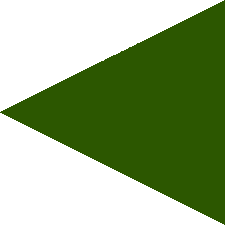
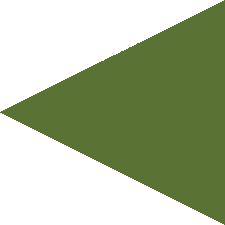
Using new color scheme, added Feedback link to uservoice.com portal.

diff --git a/css/layout.css b/css/layout.css
@@ -1,44 +1,44 @@
 /* Overridden styles of Blueprint to customize layout */
 body {
-	background-color: #FFFFFF;
+	background-color: #C7D9D4;
 }
 
 .header {
-	background: #AFD775;
+	background: #84A651;
 	border-radius: 10px 10px 0px 0px;
 	-moz-border-radius: 10px 10px 0px 0px;
-	border-top: 1px solid #AFD775;
-	border-left: 1px solid #AFD775;
-	border-right: 1px solid #AFD775;
+	border-top: 1px solid #84A651;
+	border-left: 1px solid #84A651;
+	border-right: 1px solid #84A651;
 	padding: 4px 10px 4px 5px;
 	font-weight: bold;
 	font-size: x-large;
-	color: #2C5700;
+	color: #000000;
 	text-align: center;
 }
 
 .detail {
 	background: #FFFFFF;
-	border-left: 1px solid #AFD775;
-	border-right: 1px solid #AFD775;
+	border-left: 1px solid #84A651;
+	border-right: 1px solid #84A651;
 	overflow: auto;
 }
 
 .detail-padded {
 	background: #FFFFFF;
-	border-left: 1px solid #AFD775;
-	border-right: 1px solid #AFD775;
+	border-left: 1px solid #84A651;
+	border-right: 1px solid #84A651;
 	padding: 4px 10px 4px 5px;
 	overflow: auto;
 }
 
 .footer-text {
-	background: #AFD775;
+	background: #84A651;
 	border-radius: 0px 0px 10px 10px;
 	-moz-border-radius: 0px 0px 10px 10px;
-	border-left: 1px solid #AFD775;
-	border-right: 1px solid #AFD775;
-	border-bottom: 1px solid #AFD775;
+	border-left: 1px solid #84A651;
+	border-right: 1px solid #84A651;
+	border-bottom: 1px solid #84A651;
 	padding: 4px 10px 4px 5px;
 }
 
@@ -46,9 +46,9 @@ body {
 	background: #FFFFFF;
 	border-radius: 0px 0px 10px 10px;
 	-moz-border-radius: 0px 0px 10px 10px;
-	border-left: 1px solid #AFD775;
-	border-right: 1px solid #AFD775;
-	border-bottom: 1px solid #AFD775;
+	border-left: 1px solid #84A651;
+	border-right: 1px solid #84A651;
+	border-bottom: 1px solid #84A651;
 	padding: 4px 10px 4px 5px;
 }
 
@@ -101,19 +101,19 @@ body {
 
 .hashtag {
 	font-weight: bold;
-	color: #024769;
+	color: #68A61E;
 	cursor: pointer;
 }
 
 a:link {
 	font-weight: bold;
-	color: #2C5700;
+	color: #4E84A6;
 	text-decoration: none;
 }
 
 a:visited {
 	font-weight: bold;
-	color: #2C5700;
+	color: #4E84A6;
 	text-decoration: none;
 }
 
@@ -129,7 +129,7 @@ input {
 	margin-top: 5px;
 	width: 200px;
 	border: 1px solid black;
-	background-color: #AFD775;
+	background-color: #84A651;
 	filter: alpha(opacity =   80);
 	opacity: .8;
 	color: black;
@@ -216,5 +216,9 @@ input {
 }
 
 .title-text {
-	color: #2C5700;
+	color: #000000;
+}
+
+.short-text {
+	width: 30px;
 }

diff --git a/css/contact.css b/css/contact.css
@@ -1,6 +1,6 @@
 /* Styles for Contact Us form */
 div#container {
-	color: #2C5700;
+	color: #C7D9D4;
 	background: transparent;
 	font-size: 1.2em;
 	margin: 0 auto;
@@ -35,7 +35,7 @@ ol.forms label {
 	display: block;
 	float: left;
 	line-height: 2.5em;
-	padding-right: 4%;
+	padding-right: 6%;
 	text-align: left;
 	width: 10%;
 	font-size: medium;
@@ -43,15 +43,15 @@ ol.forms label {
 
 ol.forms input {
 	background: white;
-	border: 1px solid #2C5700;
+	border: 1px solid #C7D9D4;
 	width: 80%;
 	font-size: 1.0em;
 }
 
 ol.forms textarea {
-	height: 15em;
+	height: 13em;
 	background: white;
-	border: 1px solid #2C5700;
+	border: 1px solid #C7D9D4;
 	width: 80%;
 	font-size: 1.0em;
 }
@@ -62,5 +62,5 @@ ol.forms textarea {
 
 .buttons {
 	font-size: medium;
-	color: #2C5700;
+	color: #4E84A6;
 }

diff --git a/css/jquery-tools.css b/css/jquery-tools.css
@@ -12,7 +12,7 @@
 #overlay {
 	background-image:
 		url(/images/transparent.png);
-	color: #efefef;
+	color: #ffffff;
 	height: 450px;
 }
 

diff --git a/index.php b/index.php
@@ -2,7 +2,7 @@
 <html xmlns="http://www.w3.org/1999/xhtml" xml:lang="en" lang="en">
 
 	<head>
-	    <title>lctn.me</title>
+	    <title>lctn.me | A Location Portal - Find it, Share it</title>
 	
 		<link rel="stylesheet" href="css/blueprint/screen.css" type="text/css" media="screen, projection"/>
 		<link rel="stylesheet" href="css/blueprint/print.css" type="text/css" media="print"/> 
@@ -27,6 +27,7 @@
 		<script type="text/javascript" src="js/custom/tweets.js"> </script>
 		<script type="text/javascript" src="js/custom/weather.js"> </script>
 		<script type="text/javascript" src="js/custom/wikipedia.js"> </script>
+
 
 		<script type="text/javascript">
 
@@ -108,7 +109,7 @@
 					// if the function argument is given to overlay, it is assumed to be the onBeforeLoad event listener.
 
 					$("a[rel]").overlay({
-						mask: '#2C5700',
+						mask: '#C7D9D4',
 						effect: 'apple',
 
 						onBeforeLoad: function() {
@@ -546,7 +547,7 @@
 				<div class="detail" >
 					<center>
 						<input class="large button" type="button" name="generate" value="Shorten" onclick="shortenUrl();"/>
-						<input title="Click Go to generate a short url. The link will point back to this location and open the page as you see it." type="text" class="url-text" name="url" id="url" value="" readonly="readonly"/>
+						<input title="Click Shorten to generate a short url. The link will point back to this location and open the page as you see it (with live data updated)." type="text" class="url-text" name="url" id="url" value="" readonly="readonly"/>
 						<div class="inline" id="url-window"></div>
 					</center>
 				</div>
@@ -613,7 +614,7 @@
 	 				<div class="detail-padded">
 						<center>
 							Search for <input title="Enter a search term to filter tweets, comma seperate for multiple terms (eg. party, cool)" type="text" name="filter" id="filter" onkeypress="if (event.keyCode == 13) { updateTwitterLocationInformation(); }"/>
-							in <input title="How big an area would you like to search for tweets in?" type="text" name="tweet_range" id="tweet_range" value="1" onkeypress="if (event.keyCode == 13) { updateTwitterLocationInformation(); }"/> km
+							in <input title="How big an area would you like to search for tweets in?" class="short-text" type="text" name="tweet_range" id="tweet_range" value="1" onkeypress="if (event.keyCode == 13) { updateTwitterLocationInformation(); }"/> km
 							<input type="button" id="filter_now" name="filter_now" value="Go" onclick="updateTwitterLocationInformation();"/>
 						</center>
 					</div>
@@ -640,7 +641,7 @@
 					</div>
 	 				<div class="detail-padded">
 						<center>
-							Find me articles within <input title="How big an area would you like to see wikipedia articles for (maximum of 5km)?" type="text" name="wiki_range" id="wiki_range" value="1" onkeyup="if (this.value > 5) this.value = 5; " onkeypress="if (event.keyCode == 13) { updateWikiLocationInformation(); }"/> km
+							Find me articles within <input title="How big an area would you like to see wikipedia articles for (maximum of 5km)?" class="short-text" type="text" name="wiki_range" id="wiki_range" value="1" onkeyup="if (this.value > 5) this.value = 5; " onkeypress="if (event.keyCode == 13) { updateWikiLocationInformation(); }"/> km
 							<input type="button" id="filter_now" name="filter_now" value="Go" onclick="updateWikiLocationInformation();"/>								
 						</center>
 					</div>
@@ -683,6 +684,31 @@
 			
 
 		</div>
+
+		<script type="text/javascript">
+			var uservoiceOptions = {
+			  /* required */
+			  key: 'lctn',
+			  host: 'lctn.uservoice.com', 
+			  forum: '86707',
+			  showTab: true,  
+			  /* optional */
+			  alignment: 'left',
+			  background_color:'#73654C', 
+			  text_color: 'white',
+			  hover_color: '#4E84A6',
+			  lang: 'en'
+			};
+			
+			function _loadUserVoice() {
+			  var s = document.createElement('script');
+			  s.setAttribute('type', 'text/javascript');
+			  s.setAttribute('src', ("https:" == document.location.protocol ? "https://" : "http://") + "cdn.uservoice.com/javascripts/widgets/tab.js");
+			  document.getElementsByTagName('head')[0].appendChild(s);
+			}
+			_loadSuper = window.onload;
+			window.onload = (typeof window.onload != 'function') ? _loadUserVoice : function() { _loadSuper(); _loadUserVoice(); };
+		</script>
 
 	</body>
 

diff --git a/contact.php b/contact.php
@@ -2,7 +2,7 @@
 <html xmlns="http://www.w3.org/1999/xhtml">
 	<head>
 		<meta http-equiv="Content-Type" content="text/html; charset=iso-8859-1" />
-		<title>jQuery Ajax Forms | Trevor Davis</title>
+		<title>lctn.me | Contact Us</title>
 		<link href="css/contact.css" type="text/css" rel="stylesheet" media="screen,projection" />
 		<script type="text/javascript">
 			$(document).ready(function(){
@@ -12,21 +12,22 @@
 					var subject = "An email from lctn.me's contact form";
 					var hasError = false;
 					var emailReg = /^([\w-\.]+@([\w-]+\.)+[\w-]{2,4})?$/;
-					var errorColor = "#FF0000";
+					var errorColor = "1px solid red";
+					var normalColor = "1px solid white";
 					var emailFromVal = $("#emailFrom").val();
-					$('#emailFrom').css("background-color", "white");
+					$('#emailFrom').css("border", normalColor);
 					if(emailFromVal == '') {
-						$('#emailFrom').css("background-color", errorColor);
+						$('#emailFrom').css("border", errorColor);
 						hasError = true;
 					} else if(!emailReg.test(emailFromVal)) {	
-						$('#emailFrom').css("background-color", errorColor);
+						$('#emailFrom').css("border", errorColor);
 						hasError = true;
 					}
 					
 					var messageVal = $("#message").val();
-					$('#message').css("background-color", "white");
+					$('#message').css("border", normalColor);
 					if(messageVal == '') {
-						$('#message').css("background-color", errorColor);
+						$('#message').css("border", errorColor);
 						hasError = true;
 					}
 					
@@ -39,7 +40,7 @@
 			   				{ emailTo: emailTo, emailFrom: emailFromVal, subject: subject, message: messageVal },
 			   					function(data){
 									$("#sendEmail").slideUp("normal", function() {				   
-										$("#sendEmail").before('<h1>Success</h1><p>Your email was sent. Press ESC or click the close button to continue.</p>');											
+										$("#sendEmail").before('<p>Thank you for your feedback!<br><br><i> Close this window by either pressing ESC or clicking on the close button to continue.</i></p>');											
 									});
 			   					}
 							 );
@@ -54,10 +55,10 @@
 		<div id="container">
 			<?php include('verify.php'); ?>
 			<form action="/" method="post" id="sendEmail">
-				<p>If you find something that doesn't work, or think you have a cool idea, please let me know!</p>
+				<p>I'd love to hear from you, if you would like to contact me, please fill in the fields below and click send. You email will not be shared with anyone, the only reason I need it is so that I can contact you back.</p>
 				<ol class="forms">
-					<li><label for="emailFrom">Email</label><input onclick="$('#emailFrom').css('background-color', 'white');" class="title" type="text" name="emailFrom" id="emailFrom" value="<?= $_POST['emailFrom']; ?>" /></li>
-					<li><label for="message">Message</label><textarea onclick="$('#message').css('background-color', 'white');" class="title" name="message" id="message"><?= $_POST['message']; ?></textarea></li>
+					<li><label for="emailFrom">Email</label><input onclick="$('#emailFrom').css('border', '1px solid white');" class="title" type="text" name="emailFrom" id="emailFrom" value="<?= $_POST['emailFrom']; ?>" /></li>
+					<li><label for="message">Message</label><textarea onclick="$('#message').css('border', '1px solid white');" class="title" name="message" id="message"><?= $_POST['message']; ?></textarea></li>
 				</ol>
 				<div width="100%" align="right"><button class="buttons" type="submit" id="submit">Send Email</button></div><input type="hidden" name="submitted" id="submitted" value="true"/>
 			</form>

diff --git a/about.php b/about.php
@@ -1,5 +1,5 @@
 <p>
-About lctn.me
+About lctn.me, this page still needs to be written.
 </p>
 
 
